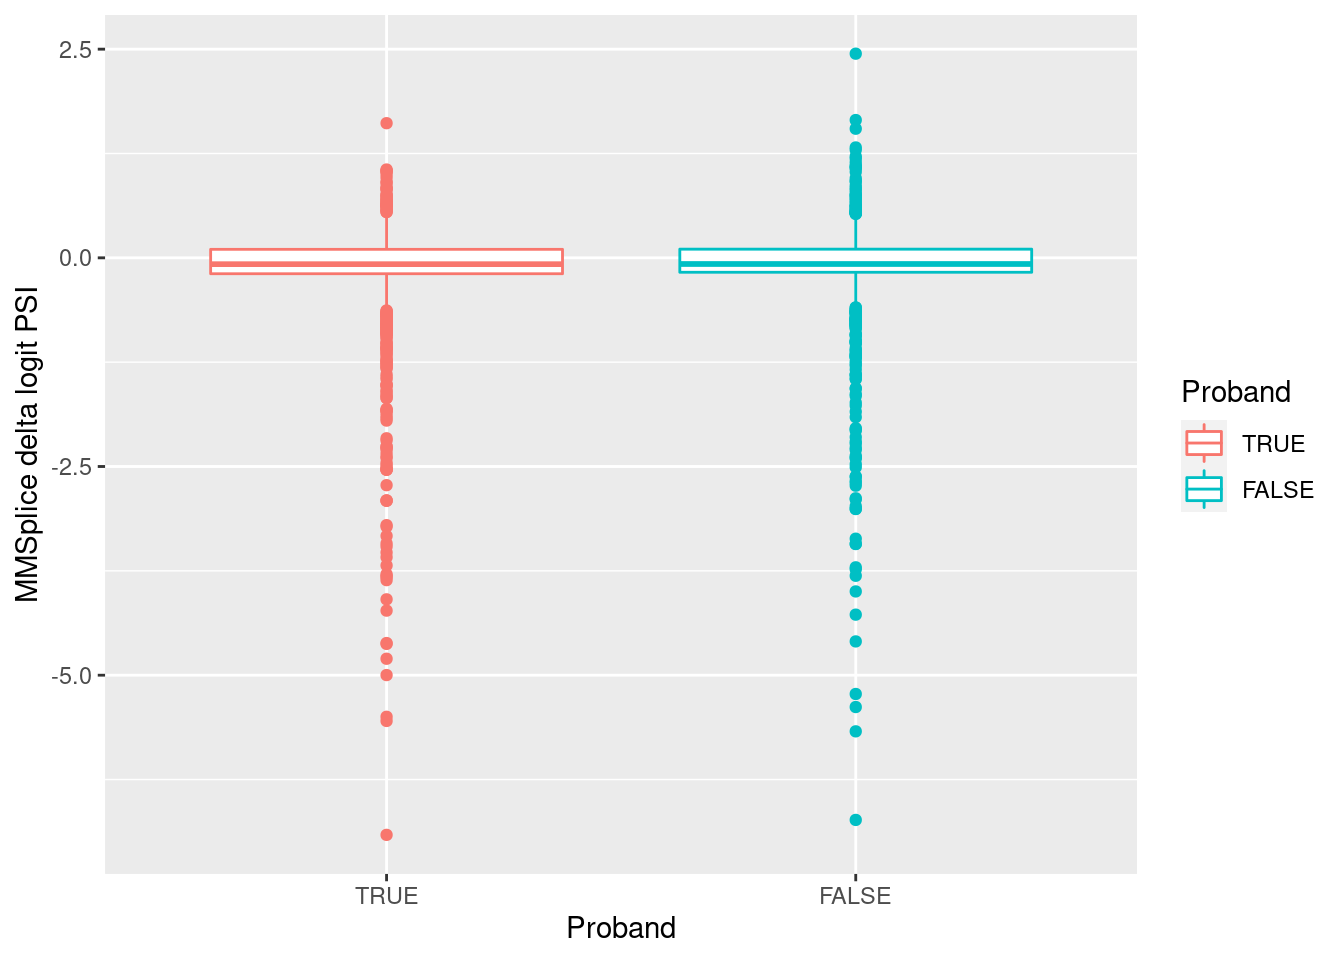
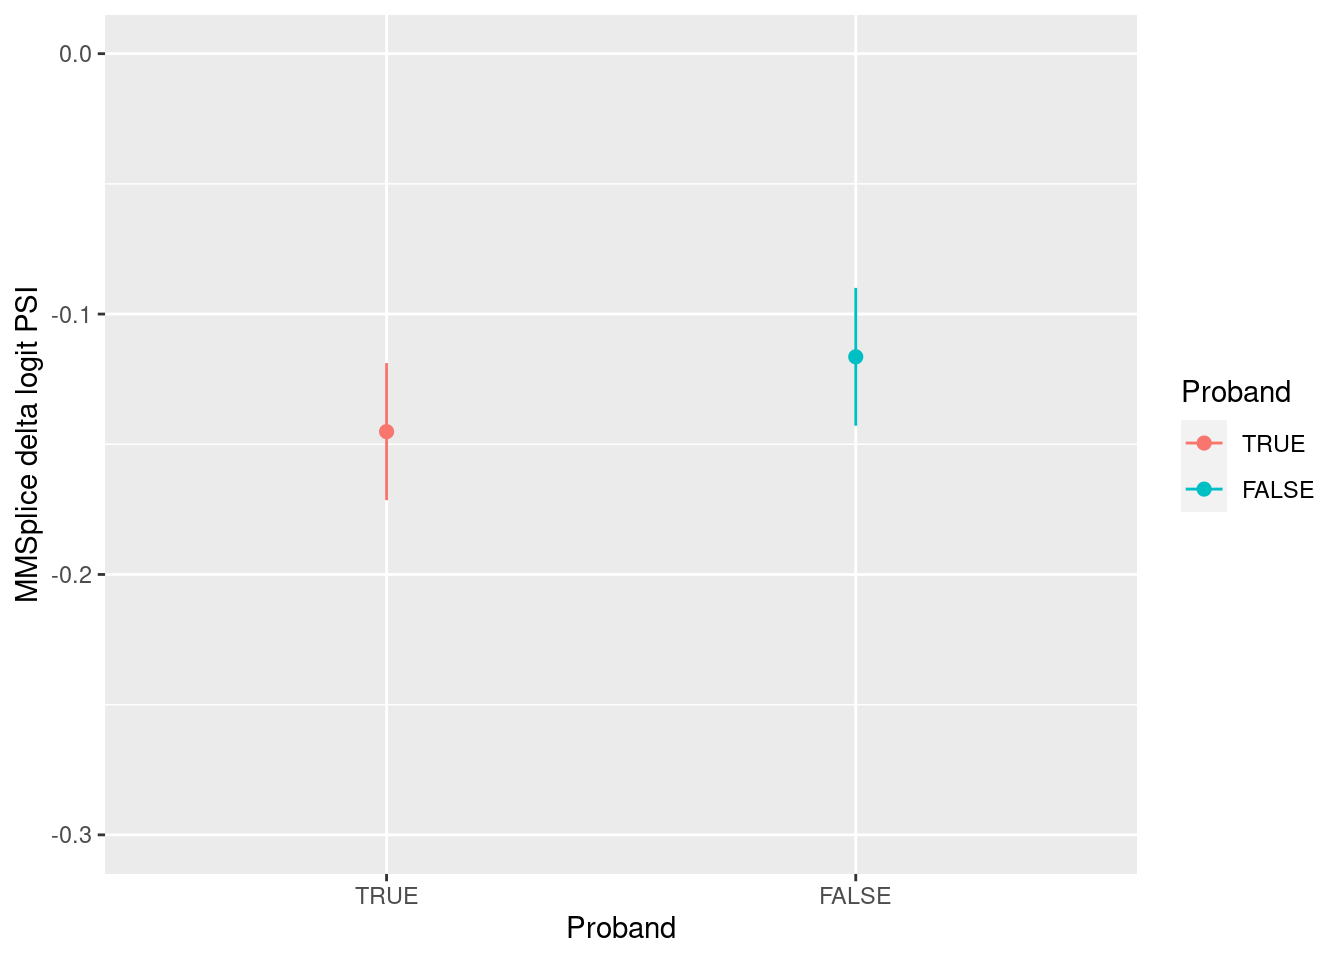
understand mtsplice outputs

diff --git a/docs/explore_mtsplice.html b/docs/explore_mtsplice.html
@@ -383,7 +383,7 @@ aria-hidden="true"></span> </a>
 <div class="tab-content">
 <div id="summary" class="tab-pane fade in active">
 <p>
-<strong>Last updated:</strong> 2022-10-01
+<strong>Last updated:</strong> 2022-10-07
 </p>
 <p>
 <strong>Checks:</strong> <span
@@ -517,15 +517,15 @@ project makes it easier to run your code on other machines.</p>
 <div class="panel panel-default">
 <div class="panel-heading">
 <p class="panel-title">
-<a data-toggle="collapse" data-parent="#workflowr-checks" href="#strongRepositoryversionstrongahrefhttpsgithubcomj3gufuncFinemappingtreeba2c2b6ca1323e7df30c0257e57e6e771cc9a094targetblankba2c2b6a">
+<a data-toggle="collapse" data-parent="#workflowr-checks" href="#strongRepositoryversionstrongahrefhttpsgithubcomj3gufuncFinemappingtree0314526ef62e682cdcaeb982791870059473e544targetblank0314526a">
 <span class="glyphicon glyphicon-ok text-success"
 aria-hidden="true"></span> <strong>Repository version:</strong>
-<a href="https://github.com/j3gu/funcFinemapping/tree/ba2c2b6ca1323e7df30c0257e57e6e771cc9a094" target="_blank">ba2c2b6</a>
+<a href="https://github.com/j3gu/funcFinemapping/tree/0314526ef62e682cdcaeb982791870059473e544" target="_blank">0314526</a>
 </a>
 </p>
 </div>
 <div
[2 lines of base64/hex data omitted]
 class="panel-collapse collapse">
 <div class="panel-body">
 <p>
@@ -535,7 +535,7 @@ reproducibility.
 </p>
 <p>
 The results in this page were generated with repository version
-<a href="https://github.com/j3gu/funcFinemapping/tree/ba2c2b6ca1323e7df30c0257e57e6e771cc9a094" target="_blank">ba2c2b6</a>.
+<a href="https://github.com/j3gu/funcFinemapping/tree/0314526ef62e682cdcaeb982791870059473e544" target="_blank">0314526</a>.
 See the <em>Past versions</em> tab to see a history of the changes made
 to the R Markdown and HTML files.
 </p>
@@ -782,7 +782,6 @@ Untracked files:
 
 Unstaged changes:
     Deleted:    .Rprofile
-    Modified:   analysis/index.Rmd
     Modified:   analysis/lab4_prepare.Rmd
     Modified:   analysis/ldsc_PTR_results.Rmd
     Deleted:    output/AAD/Caldero2019_disjoint_snps.sumstats
@@ -839,10 +838,57 @@ have uncommitted changes.
 <hr>
 </div>
 <div id="versions" class="tab-pane fade">
+
 <p>
-There are no past versions. Publish this analysis with
-<code>wflow_publish()</code> to start tracking its development.
+These are the previous versions of the repository in which changes were
+made to the R Markdown (<code>analysis/explore_mtsplice.Rmd</code>) and
+HTML (<code>docs/explore_mtsplice.html</code>) files. If you’ve
+configured a remote Git repository (see <code>?wflow_git_remote</code>),
+click on the hyperlinks in the table below to view the files as they
+were in that past version.
 </p>
+<div class="table-responsive">
+<table class="table table-condensed table-hover">
+<thead>
+<tr>
+<th>
+File
+</th>
+<th>
+Version
+</th>
+<th>
+Author
+</th>
+<th>
+Date
+</th>
+<th>
+Message
+</th>
+</tr>
+</thead>
+<tbody>
+<tr>
+<td>
+html
+</td>
+<td>
+<a href="https://rawcdn.githack.com/j3gu/funcFinemapping/a2a8faee8097111c2063c7212c15c24fcaabe921/docs/explore_mtsplice.html" target="_blank">a2a8fae</a>
+</td>
+<td>
+Jing Gu
+</td>
+<td>
+2022-10-01
+</td>
+<td>
+explore MTSplice
+</td>
+</tr>
+</tbody>
+</table>
+</div>
 <hr>
 </div>
 </div>
@@ -861,27 +907,183 @@ There are no past versions. Publish this analysis with
 <h3>Understand MTSplice outputs.</h3>
 <p>Three types of outputs</p>
 <ul>
-<li>Tissue_ref: psi scores for ref allele in one tissue</li>
-<li>Tissue_delta_psi: difference in psi scores between ref and alt</li>
-<li>Tissue:logit psi difference between ref and alt
-<img src="figure/explore_mtsplice.Rmd/unnamed-chunk-2-1.png" width="672" style="display: block; margin: auto;" /></li>
+<li><p>Tissue_ref: psi scores for ref allele in one tissue</p></li>
+<li><p>Tissue_delta_psi: difference in psi scores between ref and
+alt</p></li>
+<li><p>Tissue:logit psi difference between ref and alt
+<img src="figure/explore_mtsplice.Rmd/unnamed-chunk-2-1.png" width="672" style="display: block; margin: auto;" /></p>
+<p>
+<button type="button" class="btn btn-default btn-xs btn-workflowr btn-workflowr-fig" data-toggle="collapse" data-target="#fig-unnamed-chunk-2-1">
+<p>Past versions of unnamed-chunk-2-1.png</p>
+</button>
+</p>
+<div id="fig-unnamed-chunk-2-1" class="collapse">
+<div class="table-responsive">
+<table class="table table-condensed table-hover">
+<thead>
+<tr>
+<th>
+Version
+</th>
+<th>
+Author
+</th>
+<th>
+Date
+</th>
+</tr>
+</thead>
+<tbody>
+<tr>
+<td>
+<a href="https://github.com/j3gu/funcFinemapping/blob/a2a8faee8097111c2063c7212c15c24fcaabe921/docs/figure/explore_mtsplice.Rmd/unnamed-chunk-2-1.png" target="_blank">a2a8fae</a>
+</td>
+<td>
+Jing Gu
+</td>
+<td>
+2022-10-01
+</td>
+</tr>
+</tbody>
+</table>
+</div>
+</div></li>
 </ul>
 <p><strong>Distribution of the location of predicted SNPs</strong></p>
 <pre><code>Warning in sprintf(&quot;%s%% predicted SNPs are within 5kb from the nearest exon&quot;, :
 one argument not used by format &#39;%s%% predicted SNPs are within 5kb from the
 nearest exon&#39;</code></pre>
-<p><img src="figure/explore_mtsplice.Rmd/unnamed-chunk-3-1.png" width="672" style="display: block; margin: auto;" />
-Majority of MTSplice predicted SNPs are within 500 bp from the nearest
-exon.</p>
+<p><img src="figure/explore_mtsplice.Rmd/unnamed-chunk-3-1.png" width="672" style="display: block; margin: auto;" /></p>
+<p>
+<button type="button" class="btn btn-default btn-xs btn-workflowr btn-workflowr-fig" data-toggle="collapse" data-target="#fig-unnamed-chunk-3-1">
+Past versions of unnamed-chunk-3-1.png
+</button>
+</p>
+<div id="fig-unnamed-chunk-3-1" class="collapse">
+<div class="table-responsive">
+<table class="table table-condensed table-hover">
+<thead>
+<tr>
+<th>
+Version
+</th>
+<th>
+Author
+</th>
+<th>
+Date
+</th>
+</tr>
+</thead>
+<tbody>
+<tr>
+<td>
+<a href="https://github.com/j3gu/funcFinemapping/blob/a2a8faee8097111c2063c7212c15c24fcaabe921/docs/figure/explore_mtsplice.Rmd/unnamed-chunk-3-1.png" target="_blank">a2a8fae</a>
+</td>
+<td>
+Jing Gu
+</td>
+<td>
+2022-10-01
+</td>
+</tr>
+</tbody>
+</table>
+</div>
+</div>
+<p>Majority of MTSplice predicted SNPs are within 500 bp from the
+nearest exon.</p>
 </div>
 <div id="mmsplice-predictions-on-asd-de-novo-mutations"
 class="section level3">
 <h3>MMSplice predictions on ASD de novo mutations</h3>
 <p>Replicate the results in fig 7a using the reported de novo mutations
 from ASD patients (Zhou et al.)</p>
+<p>Legend:</p>
+<ul>
+<li>The color specifies whether an individual is a proband or
+sibling.</li>
+<li>The dot on the plot represents mean predicted scores and error bar
+stands for 95% confidence interval</li>
+</ul>
 <pre><code>[1] &quot;The number of mutations that satisfy the criteria is 3725, very close to 3884 mutations found in the paper.&quot;</code></pre>
-<p><img src="figure/explore_mtsplice.Rmd/unnamed-chunk-5-1.png" width="672" style="display: block; margin: auto;" />
-<img src="figure/explore_mtsplice.Rmd/unnamed-chunk-6-1.png" width="672" style="display: block; margin: auto;" /></p>
+<p><img src="figure/explore_mtsplice.Rmd/unnamed-chunk-5-1.png" width="672" style="display: block; margin: auto;" /></p>
+<p>
+<button type="button" class="btn btn-default btn-xs btn-workflowr btn-workflowr-fig" data-toggle="collapse" data-target="#fig-unnamed-chunk-5-1">
+Past versions of unnamed-chunk-5-1.png
+</button>
+</p>
+<div id="fig-unnamed-chunk-5-1" class="collapse">
+<div class="table-responsive">
+<table class="table table-condensed table-hover">
+<thead>
+<tr>
+<th>
+Version
+</th>
+<th>
+Author
+</th>
+<th>
+Date
+</th>
+</tr>
+</thead>
+<tbody>
+<tr>
+<td>
+<a href="https://github.com/j3gu/funcFinemapping/blob/a2a8faee8097111c2063c7212c15c24fcaabe921/docs/figure/explore_mtsplice.Rmd/unnamed-chunk-5-1.png" target="_blank">a2a8fae</a>
+</td>
+<td>
+Jing Gu
+</td>
+<td>
+2022-10-01
+</td>
+</tr>
+</tbody>
+</table>
+</div>
+</div>
+<p><img src="figure/explore_mtsplice.Rmd/unnamed-chunk-6-1.png" width="672" style="display: block; margin: auto;" /></p>
+<p>
+<button type="button" class="btn btn-default btn-xs btn-workflowr btn-workflowr-fig" data-toggle="collapse" data-target="#fig-unnamed-chunk-6-1">
+Past versions of unnamed-chunk-6-1.png
+</button>
+</p>
+<div id="fig-unnamed-chunk-6-1" class="collapse">
+<div class="table-responsive">
+<table class="table table-condensed table-hover">
+<thead>
+<tr>
+<th>
+Version
+</th>
+<th>
+Author
+</th>
+<th>
+Date
+</th>
+</tr>
+</thead>
+<tbody>
+<tr>
+<td>
+<a href="https://github.com/j3gu/funcFinemapping/blob/a2a8faee8097111c2063c7212c15c24fcaabe921/docs/figure/explore_mtsplice.Rmd/unnamed-chunk-6-1.png" target="_blank">a2a8fae</a>
+</td>
+<td>
+Jing Gu
+</td>
+<td>
+2022-10-01
+</td>
+</tr>
+</tbody>
+</table>
+</div>
+</div>
 </div>
 <div id="compare-with-spidex-results" class="section level3">
 <h3>Compare with Spidex results</h3>
@@ -889,10 +1091,85 @@ from ASD patients (Zhou et al.)</p>
 /home/jinggu/cluster/data/features/raw/splicing/spidex</p>
 <p>Around 3000 out of 3700 <em>de novo</em> variants with splicing
 altering effects were found in Spidex predictions.
-<img src="figure/explore_mtsplice.Rmd/unnamed-chunk-8-1.png" width="672" style="display: block; margin: auto;" /><img src="figure/explore_mtsplice.Rmd/unnamed-chunk-8-2.png" width="672" style="display: block; margin: auto;" />
-In our analysis, neither MMSplice or Spidex shows the differences in
-predicted values as comparable as the ones displayed on Fig 7a from the
-paper.</p>
+<img src="figure/explore_mtsplice.Rmd/unnamed-chunk-8-1.png" width="672" style="display: block; margin: auto;" /></p>
+<p>
+<button type="button" class="btn btn-default btn-xs btn-workflowr btn-workflowr-fig" data-toggle="collapse" data-target="#fig-unnamed-chunk-8-1">
+Past versions of unnamed-chunk-8-1.png
+</button>
+</p>
+<div id="fig-unnamed-chunk-8-1" class="collapse">
+<div class="table-responsive">
+<table class="table table-condensed table-hover">
+<thead>
+<tr>
+<th>
+Version
+</th>
+<th>
+Author
+</th>
+<th>
+Date
+</th>
+</tr>
+</thead>
+<tbody>
+<tr>
+<td>
+<a href="https://github.com/j3gu/funcFinemapping/blob/a2a8faee8097111c2063c7212c15c24fcaabe921/docs/figure/explore_mtsplice.Rmd/unnamed-chunk-8-1.png" target="_blank">a2a8fae</a>
+</td>
+<td>
+Jing Gu
+</td>
+<td>
+2022-10-01
+</td>
+</tr>
+</tbody>
+</table>
+</div>
+</div>
+<p><img src="figure/explore_mtsplice.Rmd/unnamed-chunk-8-2.png" width="672" style="display: block; margin: auto;" /></p>
+<p>
+<button type="button" class="btn btn-default btn-xs btn-workflowr btn-workflowr-fig" data-toggle="collapse" data-target="#fig-unnamed-chunk-8-2">
+Past versions of unnamed-chunk-8-2.png
+</button>
+</p>
+<div id="fig-unnamed-chunk-8-2" class="collapse">
+<div class="table-responsive">
+<table class="table table-condensed table-hover">
+<thead>
+<tr>
+<th>
+Version
+</th>
+<th>
+Author
+</th>
+<th>
+Date
+</th>
+</tr>
+</thead>
+<tbody>
+<tr>
+<td>
+<a href="https://github.com/j3gu/funcFinemapping/blob/a2a8faee8097111c2063c7212c15c24fcaabe921/docs/figure/explore_mtsplice.Rmd/unnamed-chunk-8-2.png" target="_blank">a2a8fae</a>
+</td>
+<td>
+Jing Gu
+</td>
+<td>
+2022-10-01
+</td>
+</tr>
+</tbody>
+</table>
+</div>
+</div>
+<p>In our analysis, MMSplice or Spidex now shows comparable results as
+the ones displayed on Fig 7a from the paper. The main difference is
+confidence interval was drawn instead of standard deviation.</p>
 <br>
 <p>
 <button type="button" class="btn btn-default btn-workflowr btn-workflowr-sessioninfo" data-toggle="collapse" data-target="#workflowr-sessioninfo" style="display: block;">
@@ -934,9 +1211,9 @@ loaded via a namespace (and not attached):
 [37] scales_1.2.0      jsonlite_1.8.0    farver_2.1.0      fs_1.5.2         
 [41] digest_0.6.29     stringi_1.7.6     rprojroot_2.0.3   grid_4.2.0       
 [45] cli_3.3.0         tools_4.2.0       magrittr_2.0.3    sass_0.4.1       
-[49] tibble_3.1.7      crayon_1.5.1      pkgconfig_2.0.3   ellipsis_0.3.2   
-[53] assertthat_0.2.1  rmarkdown_2.14    rstudioapi_0.13   R6_2.5.1         
-[57] git2r_0.30.1      compiler_4.2.0   </code></pre>
+[49] tibble_3.1.7      crayon_1.5.1      whisker_0.4       pkgconfig_2.0.3  
+[53] ellipsis_0.3.2    assertthat_0.2.1  rmarkdown_2.14    rstudioapi_0.13  
+[57] R6_2.5.1          git2r_0.30.1      compiler_4.2.0   </code></pre>
 </div>
 </div>
 </div>
